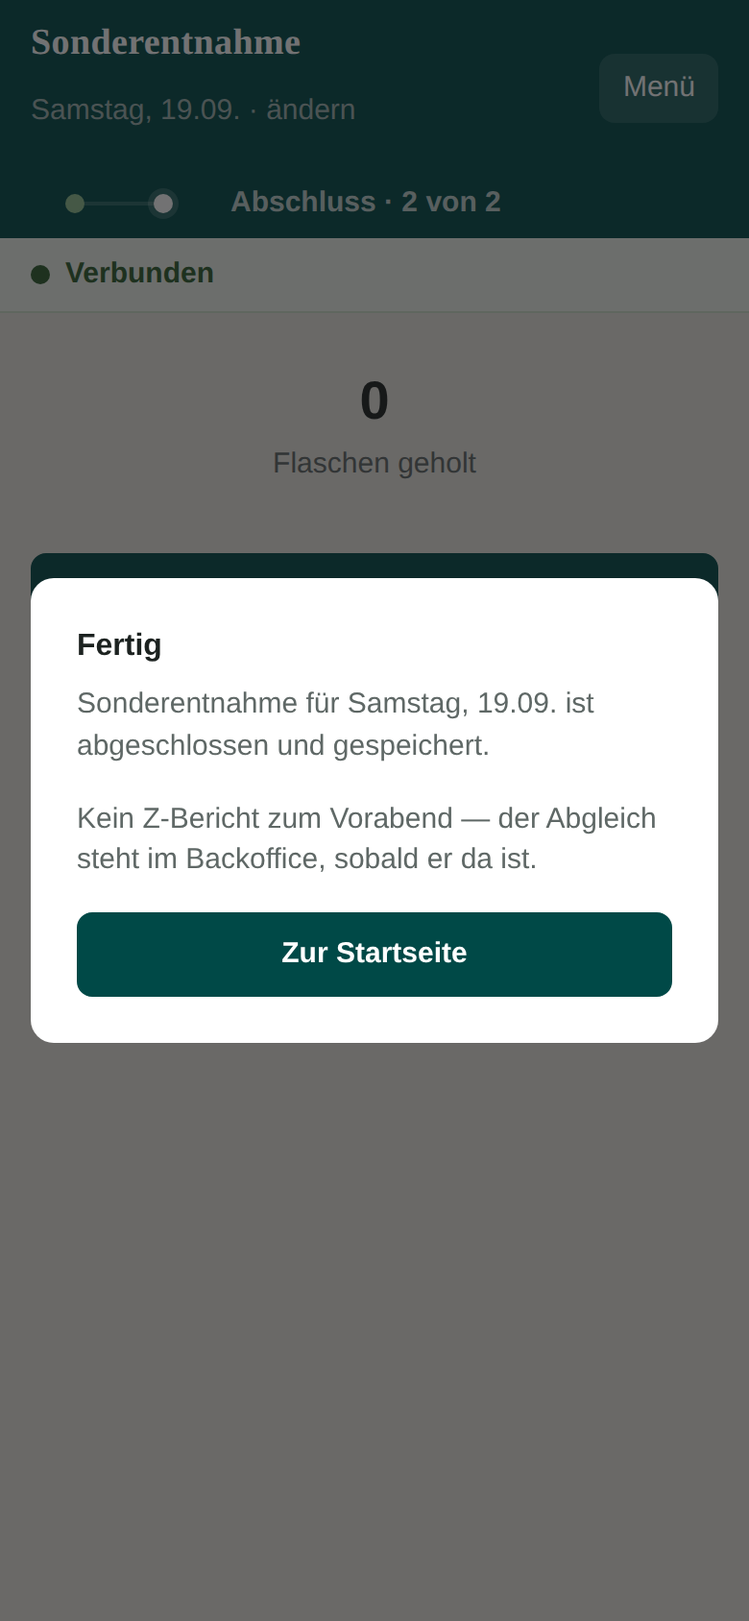
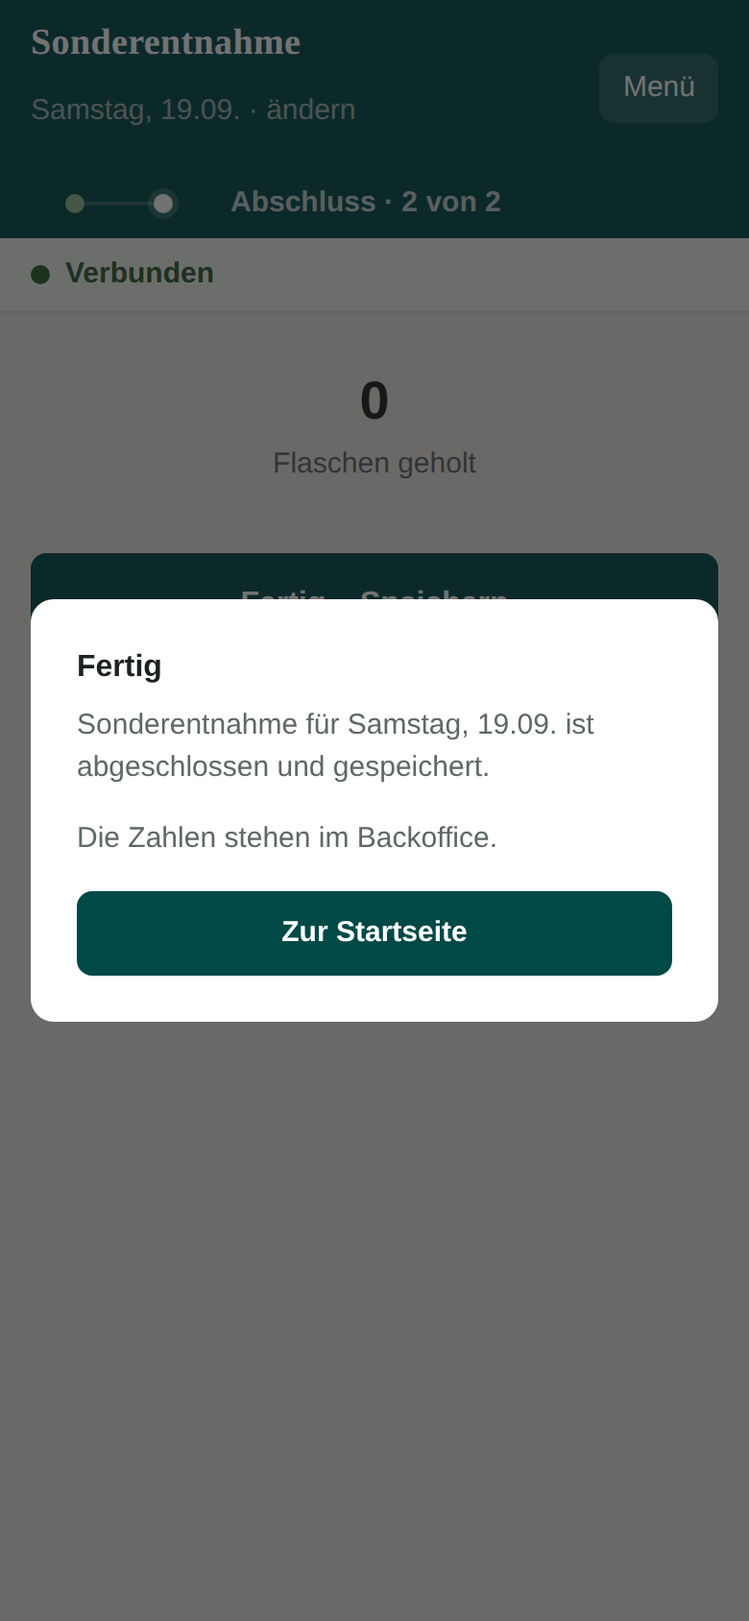
[Runde 16] Zweite Jagd: die beiden letzten A-Funde behoben
A · verkaufteFlaschen() raet nicht mehr.
  Stand: `if(!aus) return p.anzahl` — "steht keine Menge im Kassennamen,
  ist ein Stueck eine Flasche". Das ist wortwoertlich der Fehler, den das
  Backoffice in v24 abgestellt hat ("ein 2-cl-Stamperl wurde so zur
  Flasche", Kommentar bei GEBINDE_STANDARD). Im echten Bericht 37 haben
  26 von 48 Positionen keine Menge im Namen — "Aperol Spritz 1 Glas" mit
  6 Stueck darunter. Sobald die Leitung eine davon zuordnet, und genau
  dazu fordert der Morgenbrief auf, haette das Kellerfenster "verkauft 6
  Flaschen Aperol" behauptet. Jetzt gilt derselbe Ausgang wie in
  flaschen(): fehlt die Menge ODER die Gebindegroesse, bleibt die
  Position aus der Rechnung und wird gezaehlt.

A · Kein Weg haengt mehr an einer Antwort, die nie kommt.
  holeZBericht(), holeGebindeGroessen() und werHatDenCode() riefen fetch
  ohne Zeitgrenze. Der Keller hat selten gar kein Netz — er hat ein WLAN,
  das die Verbindung annimmt und schweigt. Der Knopf blieb dann auf
  "speichert ...", laeuftAbschluss auf true, und der Vorgang wurde weder
  abgeschlossen noch in den Ausgang gelegt: derselbe Zustand wie unter
  der Verbindungssperre, nur durch eine andere Tuer. Alle vier Wege
  laufen jetzt ueber holeKurz() mit acht Sekunden, wie serverAbmelden().

Dazu B (popupFertig versprach nach Kellerzaehlung, Wareneingang und
Sonderentnahme einen Abgleich, den es fuer diese Modi nie gibt) und die
C-Funde: Grammatik im Fuss, Einzahl beim Zaehlsatz, der tote Zweig
[…]

Changed region(s): [[0.0308, 0.3389, 0.9538, 0.6469]]

diff --git a/public/index.html b/public/index.html
@@ -339,8 +339,15 @@ header :focus-visible,.foot :focus-visible{outline-color:var(--fg-on-dark)}
    Rechnung steht bei `nav.seite .zahl` in leitung.html. */
 .finishbtn:disabled{background:var(--surface-4);border-color:var(--border-strong);
   color:var(--fg-secondary);cursor:default}
-/* Dieser Satz erklaert als einziger, warum der Abgleich ausbleibt —
-   `--fg-muted` auf `--surface` sind 3,66:1 und zu leise dafuer. */
+/* Dieser Satz erklaert als einziger, warum der Abgleich ausbleibt, und
+   steht deshalb auf der zweiten Stufe statt auf der leisesten.
+   BERICHTIGUNG (zweite Jagd Runde 16 · C): Die erste Fassung dieses
+   Kommentars nannte „3,66:1 auf --surface". Nachgemessen steht der Satz
+   nicht auf --surface (#FFFFFF), sondern auf dem Seitengrund (#ECE9E2);
+   dort sind es 4,73:1 und damit ueber dem Mass des Hauses. Der Wechsel
+   auf --fg-secondary bleibt trotzdem richtig — er ist eine Frage des
+   Gewichts, nicht der Barrierefreiheit. Eine erfundene Zahl in einem
+   Kommentar ist so schlecht wie eine erfundene Zahl im Fenster. */
 .finishhint{margin:var(--space-2) 0 0;text-align:center;
   font-size:var(--text-sm);color:var(--fg-secondary)}
 /* Der Abgleich im Abschlussfenster: eine Zeile je Artikel, die Zahlen
@@ -1922,7 +1929,7 @@ async function werHatDenCode(code){
   if(!new RegExp("^\\d{"+PIN_LAENGE+"}$").test(code||""))
     return {name:null, quelle:"form"};
   try{
-    const r=await fetch(API+"/code",{method:"POST",credentials:"same-origin",
+    const r=await holeKurz(API+"/code",{method:"POST",
       headers:{"content-type":"application/json"},body:JSON.stringify({code})});
     if((r.headers.get("content-type")||"").includes("json")){
       const j=await r.json().catch(()=>({}));
@@ -2193,20 +2200,39 @@ const RKEY="hh_rolle";
    naechsten Empfang nachgeholt; gesagt wird es auch, statt eine
    Sicherheit vorzutaeuschen, die es noch nicht gibt. */
 const K_ABMELDUNG="hh_abmeldung_offen_v1";
-async function serverAbmelden(){
-  /* Mit Zeitgrenze: Bei totem WLAN antwortet `fetch` nicht und bricht
-     nicht ab — der Knopf bliebe auf „meldet ab …" stehen, bis der Browser
-     von sich aus aufgibt. Acht Sekunden sind lang genug fuer ein
-     schwaches Netz und kurz genug, um im Keller nicht zu warten; danach
-     gilt es als „ohne Netz" und wird vorgemerkt. */
+/* Ein `fetch` mit Zeitgrenze.
+
+   BERICHTIGUNG (zweite Jagd Runde 16 · A): Der Keller hat selten gar kein
+   Netz — er hat ein WLAN, das die Verbindung ANNIMMT und nicht antwortet
+   (schwacher Access Point, Hotelportal). `fetch` bricht dann von sich aus
+   nicht ab. Am Abschluss hiess das: Der Knopf stand auf „speichert …",
+   `laeuftAbschluss` blieb `true`, ein zweiter Tipp tat nichts, und der
+   Vorgang wurde weder abgeschlossen noch in den Ausgang gelegt — genau
+   der Zustand, den das Veto gegen die Verbindungssperre beenden sollte,
+   nur durch eine andere Tür.
+
+   Acht Sekunden sind lang genug für ein schwaches Netz und kurz genug,
+   um im Keller nicht zu warten. Läuft die Zeit ab, gilt es wie „keine
+   Antwort": Der Abschluss geht ohne Z-Bericht weiter, die Freigabe fällt
+   auf den Gerätespeicher zurück. Kein Weg im Haus darf an einer Antwort
+   hängen, die nie kommt. */
+async function holeKurz(pfad,opt,ms){
   const ab=("AbortController" in window)?new AbortController():null;
-  const uhr=ab?setTimeout(()=>ab.abort(),8000):0;
+  const uhr=ab?setTimeout(()=>ab.abort(),ms||8000):0;
   try{
-    const r=await fetch(API+"/abmelden",{method:"POST",credentials:"same-origin",
-      headers:{accept:"application/json"}, signal:ab?ab.signal:undefined});
-    if(!r.ok)throw new Error("abmelden "+r.status);
-    return true;
+    return await fetch(pfad,Object.assign({credentials:"same-origin"},opt||{},
+      ab?{signal:ab.signal}:{}));
   } finally { if(uhr)clearTimeout(uhr); }
+}
+
+async function serverAbmelden(){
+  /* Ohne Zeitgrenze bliebe der Knopf auf „meldet ab …" stehen, bis der
+     Browser von sich aus aufgibt; danach gilt es als „ohne Netz" und
+     wird vorgemerkt. */
+  const r=await holeKurz(API+"/abmelden",
+    {method:"POST",headers:{accept:"application/json"}});
+  if(!r.ok)throw new Error("abmelden "+r.status);
+  return true;
 }
 async function holeAbmeldungNach(){
   try{ if(!localStorage.getItem(K_ABMELDUNG))return; }catch(e){ return; }
@@ -5479,8 +5505,8 @@ function gefassteMengen(d){
    Fehler — an den meisten Tagen kommt er erst spaeter per Mail. */
 async function holeZBericht(tag){
   try{
-    const r=await fetch(API+"/fassungsliste?tag="+encodeURIComponent(tag),
-      {credentials:"same-origin",headers:{accept:"application/json"}});
+    const r=await holeKurz(API+"/fassungsliste?tag="+encodeURIComponent(tag),
+      {headers:{accept:"application/json"}});
     if(!r.ok)return null;
     if(!(r.headers.get("content-type")||"").includes("json"))return null;
     const j=await r.json();
@@ -5521,22 +5547,35 @@ async function holeZBericht(tag){
    der Rechnung heraus und wird gezählt. Das ist der heutige Normalfall —
    live hat keine der dreizehn Zuordnungen eine bestätigte Gebindegrösse.
 
-   ZWEI UNTERSCHIEDE zum Backoffice, damit sie niemand für Zufall hält
-   (qa-guardian, Gegenprobe Runde 16; `flaschen()` in leitung.html:1344):
-     · Steht im Kassennamen GAR KEINE Menge („Almdudler"), rechnet die
-       App hier Stück = Flasche; das Backoffice weist die Position als
-       „Größe fehlt" aus und vergleicht sie nicht.
-     · Das Backoffice kennt neben der Größe je Kassenposition noch die
-       je ARTIKEL bestätigte und zwei Vorschläge (Größe im Artikelnamen,
-       Standard-Weinflasche). Hier zählt nur `mapping.gebinde_ml` —
-       diese Seite ist also strenger, nie großzügiger.
-   Solange beide Rechnungen nebeneinander stehen, gehört jede Änderung an
-   der einen an der anderen nachgezogen (Backlog, mittel). */
+   BERICHTIGUNG (zweite Jagd Runde 16 · A): Hier stand
+   `if(!aus) return +p.anzahl||0` — „steht keine Menge im Namen, ist ein
+   Stück eine Flasche". Das ist WORTWÖRTLICH der Fehler, den das
+   Backoffice in v24 abgestellt hat; der Kommentar bei `GEBINDE_STANDARD`
+   (leitung.html) nennt ihn beim Namen: „ein Getränk ohne Größe im Namen
+   zählte je verkaufter Einheit als ganze Flasche — ein 2-cl-Stamperl
+   wurde so zur Flasche." Im echten Bericht 37 haben 26 von 48 Positionen
+   keine Menge im Namen: „Aperol Spritz 1 Glas" (6 Stück), „Pisco Sour
+   1 Glas", „Gin Basil Smash 1 Glas". Sobald die Leitung eine davon
+   zuordnet — und genau dazu fordert der Morgenbrief auf —, hätte das
+   Kellerfenster „verkauft 6 Flaschen Aperol" behauptet.
+
+   Es wird deshalb NICHTS mehr geraten, an keiner der beiden Stellen:
+   Fehlt die Menge im Namen ODER die bestätigte Gebindegrösse, bleibt die
+   Position aus der Rechnung und wird gezählt. Genau das tut `flaschen()`
+   im Backoffice auch (`{ok:false, fehlt:"ausschank"}` bzw. `"gebinde"`).
+
+   EIN Unterschied bleibt, und er ist gewollt: Das Backoffice kennt neben
+   der Grösse je Kassenposition noch die je ARTIKEL bestätigte und zwei
+   Vorschläge (Grösse im Artikelnamen, Standard-Weinflasche). Hier zählt
+   nur `mapping.gebinde_ml` — diese Seite ist also strenger, nie
+   grosszügiger. Solange beide Rechnungen nebeneinander stehen, gehört
+   jede Änderung an der einen an der anderen nachgezogen (Backlog). */
 function verkaufteFlaschen(p,groessen){
   const aus=+p.ausschankMl||0;
-  const geb=+((groessen||{})[p.kassenname||p.rohbez])||0;
-  if(!aus)return +p.anzahl||0;      /* keine Menge im Namen: Stück = Flasche */
-  if(!geb)return null;              /* Menge da, Gebinde unbekannt: nicht rechenbar */
+  /* `/api/fassungsliste` nennt die Kassenzeile `rohbez`; dasselbe Wort
+     steht in `mapping.fremd` und kommt als `kassenname` zurück. */
+  const geb=+((groessen||{})[p.rohbez])||0;
+  if(!aus||!geb)return null;        /* Menge oder Gebinde fehlt: nicht rechenbar */
   return (+p.anzahl||0)*aus/geb;
 }
 
@@ -5546,8 +5585,7 @@ function verkaufteFlaschen(p,groessen){
    das Fenster sagt genau das. */
 async function holeGebindeGroessen(){
   try{
-    const r=await fetch(API+"/mapping",{credentials:"same-origin",
-      headers:{accept:"application/json"}});
+    const r=await holeKurz(API+"/mapping",{headers:{accept:"application/json"}});
     if(!r.ok)return {};
     if(!(r.headers.get("content-type")||"").includes("json"))return {};
     const j=await r.json();
@@ -5643,18 +5681,29 @@ function popupAbgleich(d,z,groessen){
      Abweichung" ist dann keine Auskunft, sondern eine Falschaussage
      gegenueber jemandem, der gerade gezaehlt hat. Es gibt jetzt drei
      Lagen, und sie heissen verschieden. */
+  /* Der Grund muss der sein, der wirklich gilt (C, zweite Jagd): „die
+     Gebindegrössen fehlen" stimmt nur, wenn Positionen daran scheitern.
+     Ist der Bericht schlicht keinem Artikel zugeordnet — oder wurde
+     nichts gefasst, was darin vorkommt —, ist das etwas anderes. */
+  const warum = a.ohneGroesse
+    ? "Zum Z-Bericht vom " + deTagKurz(vortagVon(d.tag)) + " fehlen die "
+      + "Gebindegr\u00f6\u00dfen \u2014 ohne sie l\u00e4sst sich aus \u201e1/8 l\u201c oder "
+      + "\u201e2 cl\u201c keine Flaschenzahl rechnen. Die Leitung best\u00e4tigt sie "
+      + "im Backoffice unter \u201eVerkauf \u2194 Fassung\u201c."
+    : a.ohneZuordnung
+      ? "Keine Position des Z-Berichts vom " + deTagKurz(vortagVon(d.tag))
+        + " ist einem Artikel zugeordnet. Das macht die Leitung im Backoffice."
+      : "Zum Z-Bericht vom " + deTagKurz(vortagVon(d.tag))
+        + " gibt es nichts, was zu dieser Fassung passt.";
   const kopf = a.geprueft===0
     ? `<div class="box warn" style="margin-top:0"><b>Nichts zu vergleichen.</b><br>`
-      +`Zum Z-Bericht vom ${esc(deTagKurz(vortagVon(d.tag)))} fehlen die `
-      +`Gebindegr\u00f6\u00dfen \u2014 ohne sie l\u00e4sst sich aus „1/8 l" oder „0,75 l" `
-      +`keine Flaschenzahl rechnen. Die Leitung best\u00e4tigt sie im Backoffice `
-      +`unter „Verkauf \u2194 Fassung".</div>`
+      +esc(warum)+`</div>`
     : a.zeilen.length
       ? `<p>Gefasst gegen den Z-Bericht vom ${esc(deTagKurz(vortagVon(d.tag)))} `
         +`Nur die Abweichungen:</p><div class="abgl">${a.zeilen.map(zeile).join("")}</div>`
       : `<p>Gefasst gegen den Z-Bericht vom ${esc(deTagKurz(vortagVon(d.tag)))}</p>`
         +`<div class="box good" style="margin-top:0"><b>Keine Abweichung.</b><br>`
-        +a.geprueft+(a.geprueft===1?" Artikel verglichen.":" Artikel verglichen.")+`</div>`;
+        +(a.geprueft===1?"Ein Artikel verglichen.":a.geprueft+" Artikel verglichen.")+`</div>`;
   /* Der Fuss nennt nur, was DIESES Fenster nicht rechnen konnte.
 
      BERICHTIGUNG (qa-guardian, Gegenprobe Runde 16): Die unzugeordneten
@@ -5670,9 +5719,11 @@ function popupAbgleich(d,z,groessen){
      der gerade gezaehlt hat. Genannt wird die Zahl deshalb wieder, aber
      nur wenn es eine Abweichung gibt, die sie erklaeren kann. */
   const fuss=[];
-  if(a.ohneGroesse)fuss.push(a.ohneGroesse
-    +(a.ohneGroesse===1?" Kassenposition hat":" Kassenpositionen haben")
-    +" keine best\u00e4tigte Gebindegr\u00f6\u00dfe und bleibt aus der Rechnung.");
+  if(a.ohneGroesse)fuss.push(a.ohneGroesse===1
+    ? "Eine Kassenposition hat keine Menge im Namen oder keine best\u00e4tigte "
+      +"Gebindegr\u00f6\u00dfe und bleibt aus der Rechnung."
+    : a.ohneGroesse+" Kassenpositionen haben keine Menge im Namen oder keine "
+      +"best\u00e4tigte Gebindegr\u00f6\u00dfe und bleiben aus der Rechnung.");
   if(a.ohneZuordnung&&a.zeilen.length)fuss.push(a.ohneZuordnung
     +(a.ohneZuordnung===1?" Kassenposition ist":" Kassenpositionen sind")
     +" keinem Artikel zugeordnet \u2014 was darunter verkauft wurde, fehlt "
@@ -5702,11 +5753,21 @@ function popupFertig(d){
   /* `deTagKurz()` endet selbst auf einem Punkt („Freitag, 18.09.") — ein
      zweiter davor gaebe „18.09..". (Jagd Runde 16 · C) */
   const wann=esc(deTagKurz(d.tag));
+  /* BERICHTIGUNG (zweite Jagd Runde 16 · B): Hier stand in JEDEM Modus
+     „Kein Z-Bericht zum Vorabend — der Abgleich steht im Backoffice".
+     Einen Z-Bericht holt der Abschluss aber nur bei „tag" und „fuellen"
+     (siehe abschlussSchritt); nach Kellerzählung, Wareneingang und
+     Sonderentnahme versprach der Satz einen Abgleich, den es für diese
+     Modi gar nicht gibt. */
+  const holtAbgleich = d.mode==="tag"||d.mode==="fuellen";
   const nachsatz = !verbunden()
     ? "Ohne Netz \u2014 der Vorgang liegt im Ger\u00e4t und geht hinaus, sobald "
-      +"wieder Empfang da ist. Der Abgleich kommt dann im Backoffice."
-    : "Kein Z-Bericht zum Vorabend \u2014 der Abgleich steht im Backoffice, "
-      +"sobald er da ist.";
+      +"wieder Empfang da ist."+(holtAbgleich
+        ? " Der Abgleich kommt dann im Backoffice." : "")
+    : holtAbgleich
+      ? "Kein Z-Bericht zum Vorabend \u2014 der Abgleich steht im Backoffice, "
+        +"sobald er da ist."
+      : "Die Zahlen stehen im Backoffice.";
   $("#ovBody").innerHTML=`<p>${esc(MODES[d.mode].t)} f\u00fcr `
     +`${wann} ist abgeschlossen und gespeichert.</p>`
     +`<p class="abglfuss">${esc(nachsatz)}</p>`;

diff --git a/public/sw.js b/public/sw.js
@@ -21,7 +21,7 @@
    Sonst behält das iPhone hartnäckig den alten Stand.
    ════════════════════════════════════════════════════════════════════ */
 
-const VERSION = "v42";
+const VERSION = "v43";
 const SPEICHER = "hh-fassung-" + VERSION;
 
 /* Was im Keller verfügbar sein muss. Die Schriften stehen mit drin,

diff --git a/review/LOG.md b/review/LOG.md
@@ -3158,3 +3158,129 @@ Gegenprobe noch einmal.
 **Rundenfazit:** Der Auftrag und die harten Regeln desselben Hauses haben
 einander widersprochen. Aufgelöst hat es nicht mein Geschmack, sondern die
 Prüfreihenfolge, die derselbe Auftrag vorgibt.
+
+### Runde 16 · Gegenprobe – qa-guardian (zweite Schlusskontrolle vor dem Livegang)
+
+**Kritik am Vorgänger:**
+* ✅ übernommen — die Verbindungssperre am Abschluss ist draußen und die
+  Begründung trägt. `finishNetz()` (`public/index.html:2582`) setzt kein
+  `disabled` mehr, der `if(!verbunden())`-Block in `abschlussSchritt()`
+  ist fort, `holeZBericht()` liefert offline `null`, `popupFertig()` sagt
+  den richtigen Satz. Gemessen, nicht gelesen: `tests/qa-runde16-schluss.cjs`
+  **18/18**, Q1 und Q2 grün. **Mein Veto vom ersten Zug ist damit erledigt.**
+* ✅ übernommen — `POST /api/code` weist eine krumme Eingabe mit 422 ab,
+  **bevor** sie in `anmeldeversuch` zählt (`src/index.js:274`), und zwar
+  nach der 429-Prüfung und vor jedem Schreibzugriff. Am echten Schema
+  nachgestellt: neun formrichtige Fehlgriffe zählen, eine krumme Eingabe
+  kostet nichts (0 neue Zeilen).
+* ✅ übernommen — die vorgemerkte Abmeldung fällt nur noch bei einer vom
+  Server bestätigten Anmeldung (`public/index.html:2821`, `if(serverHat)`).
+  Folge, die dabeisteht und stimmt: Wer sich ohne Netz anmeldet, erbt den
+  alten Keks nicht mehr — beim nächsten Empfang wird er beendet, und der
+  Ausgang wartet dann auf eine echte Anmeldung. Nichts geht verloren (G4).
+* ↩ geändert — `abgleichZeilen()`/`popupAbgleich()`: Der Fuß nannte die
+  unzugeordneten Kassenpositionen gar nicht mehr („Arbeit der Leitung").
+  Das deckt den häufigsten Live-Fall zu: Ein Artikel, der **gefasst** wurde
+  und dessen Kassenposition keinem Artikel zugeordnet ist, steht in der
+  Liste mit „verkauft 0" und der vollen Menge als Abweichung. Im Browser
+  nachgestellt (`tests/qa-runde16-gegenprobe.cjs`, G1): „Tomate · gefasst 6
+  · verkauft 0 · +6", ohne ein Wort dazu. Das ist dieselbe Art von
+  Falschaussage, die A2 an „Keine Abweichung" gerügt hat, nur andersherum.
+  Der Fuß nennt die Zahl jetzt wieder — aber nur, wenn es eine Abweichung
+  gibt, die sie erklärt.
+* ↩ geändert — zwei Kommentare, die das Gegenteil des Codes behaupteten:
+  der Block über `abgleichZeilen()` sagte weiterhin, Zeilen mit
+  `ausschankMl` blieben als „Offenausschank" draußen (genau der Irrtum, den
+  A2 berichtigt hat), und `verkaufteFlaschen()` behauptete „genau das tut
+  das Backoffice auch". Tut es nicht — siehe Backlog.
+* ❌ abgelehnt — nichts. Die Abweichung von Punkt 4b halte ich für richtig
+  und für sauber dokumentiert (ERGEBNIS, MORGENBRIEF, LOG, je mit Rückweg).
+
+**Umgesetzt:**
+1. Der Fuß im Abgleichfenster nennt die unzugeordneten Kassenpositionen
+   wieder — nur dann, wenn eine Abweichung dasteht, die sie erklärt
+   (`public/index.html:5676`). `sw.js` v41 → **v42**, ERGEBNIS und
+   MORGENBRIEF auf v42 nachgezogen.
+2. `tests/qa-runde16-gegenprobe.cjs` neu (Playwright, 390 und 320 px):
+   G1/G1b unzugeordnete Ware im Fenster + kein Überlauf, G2 offline
+   abschließen → Empfang → genau ein PUT und nichts nachgeschickt, G3
+   Serverfehler 500, G4 abgelaufene Sitzung, G5 krumme Eingabe an der
+   Freigabe. **18/18 ja.**
+3. Zwei Prüfungen umgeschrieben statt weggenommen (`tests/runde16.test.mjs`
+   „das Fenster behauptet nichts, was es nicht gerechnet hat";
+   `tests/ui-runde16.cjs` „die Küchenposition steht NICHT im Kellerfenster").
+   Beide hielten den Fehlstand fest; sie prüfen jetzt die Bedingung.
+
+**Geprüft:**
+* `npm test` **424/424**. `tests/qa-runde16-schluss.cjs` 18/18,
+  `tests/ui-runde16.cjs` alle ja, `tests/ui-nachjagd.cjs` 31/31,
+  `tests/qa-schluss.cjs` alle ja, `tests/qa-runde16-gegenprobe.cjs` 18/18.
+  `node --check` für `src/index.js` und `public/sw.js` sauber, beide
+  `<script>`-Blöcke in `public/` parsen (`tests/projektregeln.test.mjs`).
+* Persona (iPhone 390 px, neue Servicekraft, nach dem Abendservice):
+  läuft ohne JS-Fehler bis zum Abschluss durch; „Fertig – Speichern" ist
+  drückbar, der Hinweis darunter nennt den richtigen Grund. Es bleiben die
+  zwei alten Stellen: Hilfe-Blatt in Schritt 1 und Begrüßung nach dem
+  Neuladen legen sich ungefragt über den Schirm.
+* Randfälle einzeln: offline → online (ein PUT, Ausgang leer, zweiter
+  Anlauf schickt nichts nach), doppeltes Absenden (ein Schlüssel, ein
+  Eintrag), 500 beim Leeren (bleibt liegen, danach genau einmal hinaus),
+  401/abgelaufene Sitzung (fertiger Vorgang bleibt im Ausgang), Abbruch
+  mitten in der Eingabe (Zählstand überlebt), krumme Eingabe an der
+  Freigabe (geht gar nicht erst hinaus).
+* Z-Bericht gegen `tests/fixtures/zbericht-37-extended.csv` gerechnet:
+  Betriebstag 2026-09-16, Z 37, 48 Positionen, Rabatt 3/−52, Storno 1/4,20.
+  Die vier gastronovi-Eigenheiten halten: doppelte Namen summiert (2 Fälle,
+  u. a. „CH Gesellmann 1/8 l" aus Bar und Restaurant), 12 Zeilen mit 0 €
+  zählen als Verbrauch, Größensuffixe gelesen („1/8 l" → 125, „2 cl" → 20),
+  keine Warengruppe je Zeile.
+* SQL gegen `docs/live-schema.sql`: `tests/live-schema-durchlauf.test.mjs`
+  fährt den ganzen Worker gegen echtes SQLite mit dem Live-Schema — grün.
+  Der neue `DELETE FROM anmeldeversuch WHERE ip = ?1 AND ok = 0` in
+  `codeNachschlagen()` eigens nachgestellt: 9 Fehlversuche → 0, die
+  Anmeldung geht danach wieder, eine krumme Eingabe zählt weiter nicht.
+  `mapping.gebinde_ml` existiert live; `GET /api/mapping` hat keine
+  Rollenschranke, die App darf die Größen also auch als `service` holen.
+* **Regeln 1–14.** 1: weiter gebrochen — gearbeitet wird auf
+  `claude/runde16`, `origin/v2-review` (`c84a4bf`) ist nicht einmal
+  Vorfahr. Alt bekannt, nicht von mir zu lösen. 2: kein Deploy, kein
+  Schreiben, keine Live-D1 in dieser Sitzung erreichbar. 3: `schema.sql`
+  und `migrations/` unberührt, kein CREATE/ALTER/DROP im Diff. 4: siehe
+  oben. 5: `gnmap.js` unberührt. 6: Journal append-only, Offline-Queue
+  gemessen unversehrt (G2–G4). 7: `gnparse.js` unberührt, Eigenheiten am
+  echten Bericht bestätigt. 8: keine neue Abhängigkeit. 9: keine Codes im
+  Diff. 11: `RUNDEN = 1000`. 12: `wrangler.jsonc` unberührt. 13: nichts
+  Dashboard-seitiges nötig. 14: `schluessel`/`zaehlnr`/`geraet` auf
+  `vorgang` weder gelesen noch geschrieben (der Treffer `schluessel` ist
+  die Spalte der Tabelle `stamm`).
+* Vier Dateien in `public/`, Gestaltungsschicht wortgleich, `sw.js` erhöht.
+* **UNGEPRÜFT:** echtes Safari auf iPhone/iPad; die Live-D1 selbst (kein
+  Cloudflare-Zugang in dieser Sitzung, gerechnet wurde gegen
+  `docs/live-schema.sql`, Stand 17.09.).
+
+**Für die Nächsten:**
+* An **Casimir**: Zwei A-Funde der zweiten Jagd stehen im Commit `272d3cb`
+  ausdrücklich als NOCH NICHT behoben. Beide bestätige ich unabhängig, und
+  beide sind der Grund für das erneute Veto — siehe unten. Der Stand ist
+  trotzdem deutlich besser als das, was gerade live ist.
+* An den **software-engineer**: `verkaufteFlaschen()` braucht denselben
+  Ausgang wie `flaschen()` in `leitung.html:1344` — ohne Menge im
+  Kassennamen wird NICHT verglichen, statt „Stück = Flasche". Und
+  `holeZBericht()`/`holeGebindeGroessen()` brauchen die Zeitgrenze, die
+  `serverAbmelden()` seit dieser Runde hat (`public/index.html:2202`).
+
+**Phase/Thema:** Runde 16 / Gegenprobe zum Veto, vor dem Livegang
+
+**Backlog:** neu unter „hoch": `verkaufteFlaschen()` rechnet ohne Menge im
+Kassennamen Stück = Flasche; Abschluss ohne Zeitgrenze am Server. Neu unter
+„niedrig": Einzahl/Mehrzahl im Satz „N Artikel verglichen" ist zweimal
+derselbe Text; Artikelnamen brechen im Abgleich bei 320 px mitten im Wort.
+Erledigt: „Abschluss ohne Netz gesperrt" (meine Merge-Sperre), „/api/code
+räumt die Sperre nicht auf".
+
+**STATUS:** BLOCKER — **VETO**, eng begrenzt auf die zwei benannten
+A-Funde. Alles andere ist aus meiner Rolle sauber.
+
+**Rundenfazit:** Die Tür, die ich zugehalten habe, ist offen und richtig
+gebaut; stehen geblieben sind zwei Zahlen, die im Keller etwas behaupten,
+was der Bericht nicht hergibt.

diff --git a/review/BACKLOG.md b/review/BACKLOG.md
@@ -244,6 +244,13 @@ Spalten: Priorität · Rolle (wer hat es gemeldet) · Runde · Punkt · Datei:Ze
 - **niedrig** · **`.exprow` ist ungenutzt.** Die Klasse trug „Protokoll senden"; der Knopf ist in Runde 16 entfallen, die Regeln stehen noch. Mit ihr `.explesser button.del` (nur noch im Archiv gebraucht). | `public/index.html` (`.exprow`)
 - **niedrig** · **Der Abgleich zeigt Artikel, die gefasst, aber nie verkauft wurden, als volle Abweichung.** Das ist richtig gerechnet (gefasst 2, verkauft 0 → +2), im Keller aber der häufigste Fall bei allem, was selten über den Tresen geht. Nach ein paar Tagen Betrieb prüfen, ob eine Schwelle („erst ab Differenz 2 zeigen") das Fenster nicht lesbarer macht. Braucht eine Antwort aus dem Service, nicht aus dem Code. | `public/index.html` (`abgleichZeilen`)
 
+### Neu · Gegenprobe des qa-guardian (19.09.2026)
+- **hoch** · **`verkaufteFlaschen()` rechnet ohne Menge im Kassennamen Stück = Flasche.** `flaschen()` in `public/leitung.html:1344` weist dieselbe Position als „Größe fehlt" aus und vergleicht sie NICHT. Am echten Bericht 37 belegt: „Aperol Spritz 1 Glas", 6 Stück, `ml = null`. Sobald jemand diese Kassenposition einem Artikel zuordnet — und genau dazu fordert der Morgenbrief auf — behauptet das Kellerfenster „verkauft 6 Flaschen". Gleicher Ausgang wie im Backoffice: ohne Menge im Namen wird nicht verglichen, die Position wird gezählt und im Fuß genannt. | `public/index.html` (`verkaufteFlaschen`)
+- **hoch** · **Der Abschluss hat keine Zeitgrenze.** `holeZBericht()` und `holeGebindeGroessen()` rufen `fetch` ohne `AbortController`. An einem WLAN, das die Verbindung annimmt und nicht antwortet (Hotelnetz, Portal, schwacher Keller-AP), bleibt „Fertig – Speichern" auf „speichert …" und gesperrt stehen, bis der Browser von sich aus aufgibt. Verloren geht nichts — der Stand liegt im Gerät —, aber der Vorgang wird nicht abgeschlossen und geht nicht in den Ausgang. Das Muster steht seit dieser Runde im selben Haus: `serverAbmelden()`, `public/index.html:2202`, acht Sekunden. | `public/index.html` (`holeZBericht`, `holeGebindeGroessen`)
+- **niedrig** · **„N Artikel verglichen" hat zweimal denselben Text** für Einzahl und Mehrzahl (`a.geprueft===1?" Artikel verglichen.":" Artikel verglichen."`). Sachlich richtig, aber die Verzweigung täuscht eine Unterscheidung vor, die es nicht gibt. | `public/index.html` (`popupAbgleich`)
+- **niedrig** · **Artikelnamen brechen im Abgleich bei 320 px mitten im Wort** („Tom/ate", „Lein/dl · Lan/genl/ois"). Beleg: `review/screens/runde16/13-abgleich-fuss-320.png`. | `public/index.html` (`.abglz .nm`)
+- **niedrig** · **Der erste „Neu"-Eintrag dieser Runde ist überholt:** Er beschreibt den Abgleich so, wie er vor der Berichtigung A2 gerechnet hat (Positionen mit `ausschankMl` werden übersprungen). Seit `verkaufteFlaschen()` gilt das nicht mehr. Beim nächsten Durchgang streichen. | `review/BACKLOG.md`
+
 ### Erledigt in Runde 16 (aus „Hoch"/„Runde 15" hierher verschoben)
 - ~~**`abmelden` meldet nicht ab** (A1)~~ — der Knopf ruft `POST /api/abmelden` und wartet auf die Antwort; `leitung.html` hat einen eigenen Ausgang am Fuß der Navigation. Beleg: `review/screens/runde16/08…10`, Prüfung: `tests/runde16.test.mjs`, `tests/ui-runde16.cjs`.
 - ~~**Zwei Personen dürfen denselben Code haben** (A2)~~ — `personSchreiben()` lehnt mit 409 ab, gezählt werden alle anderen Personen (auch gesperrte); `pinZuruecksetzen()` benutzt dieselbe Prüfung.
